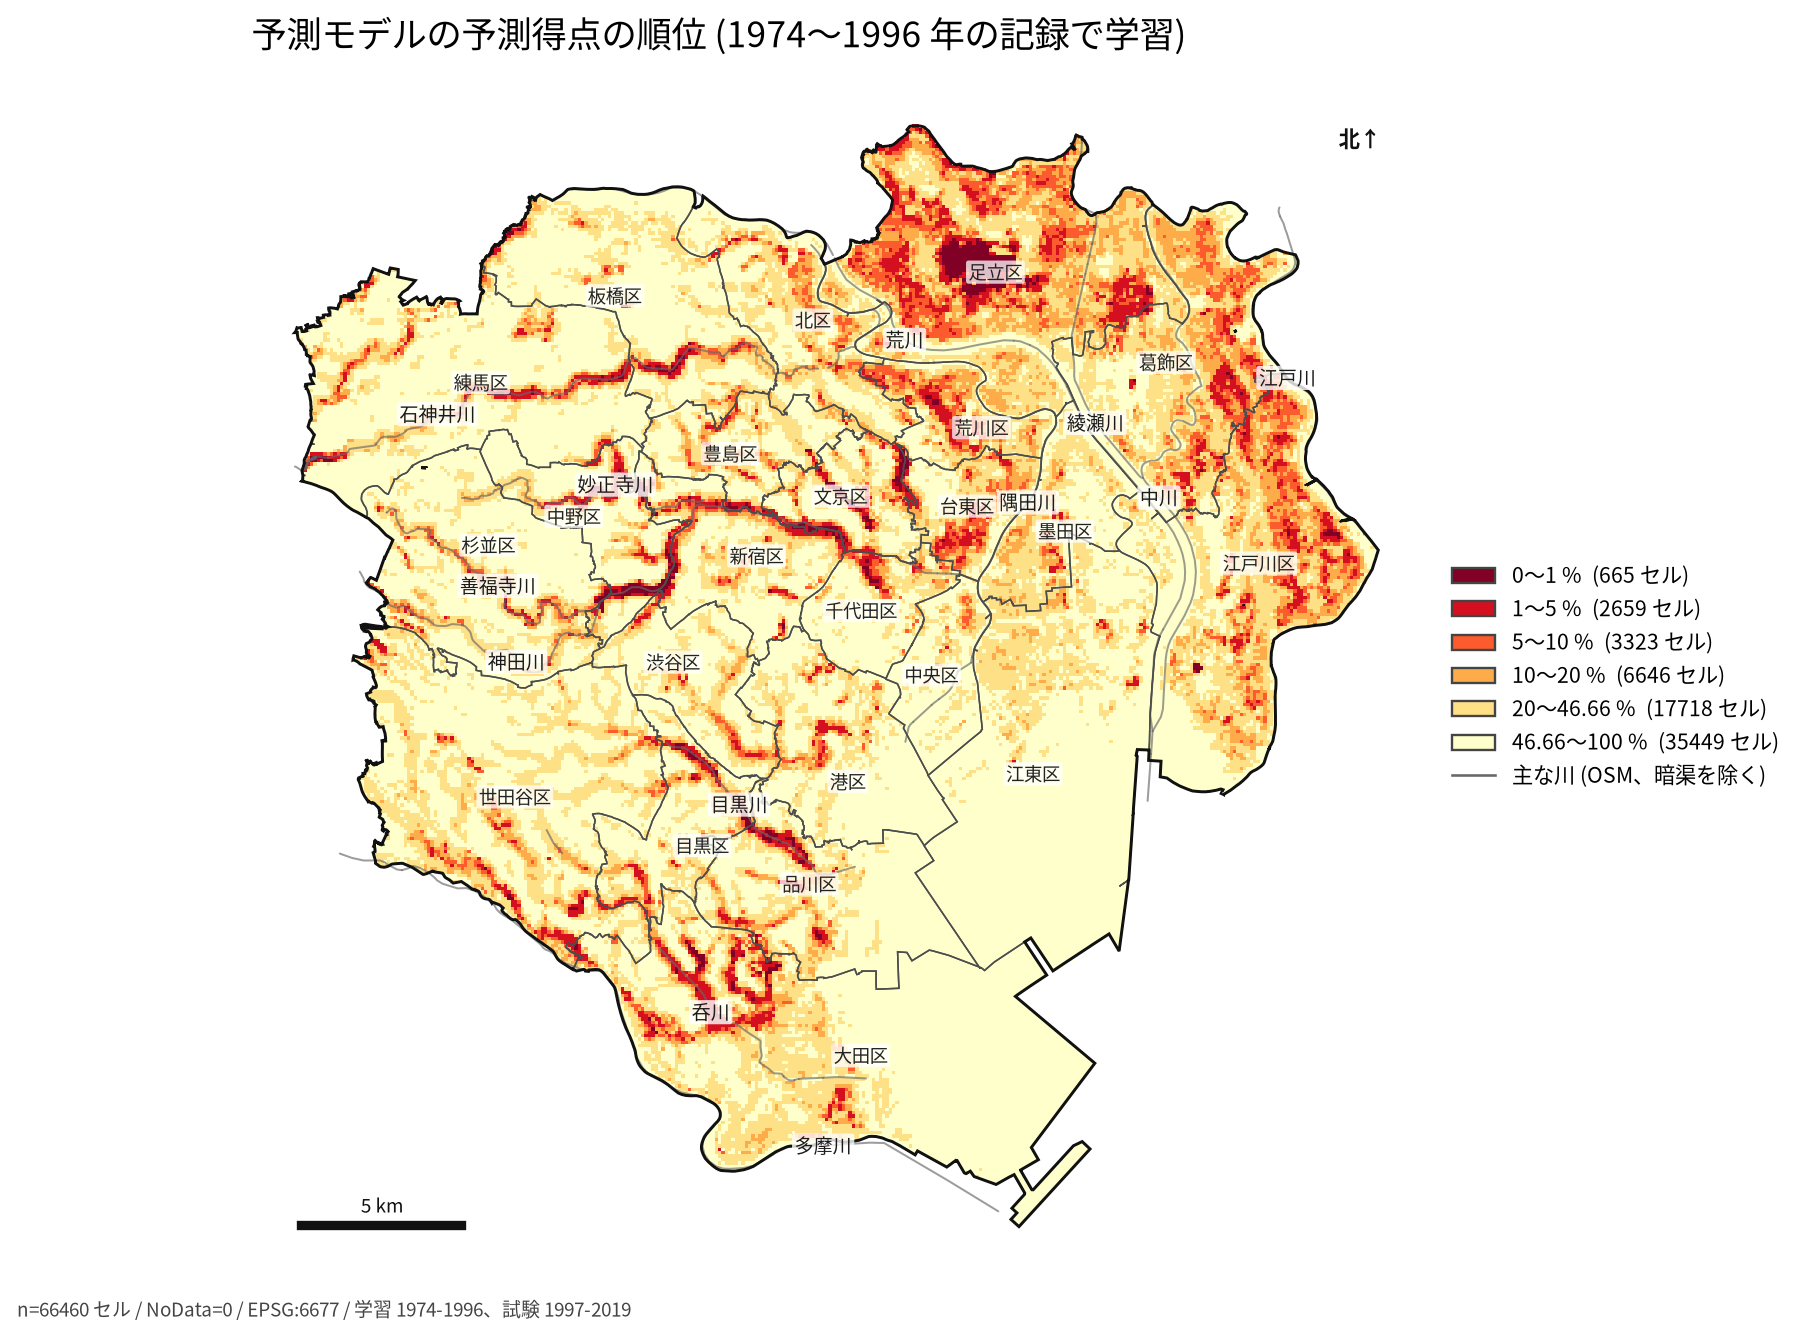
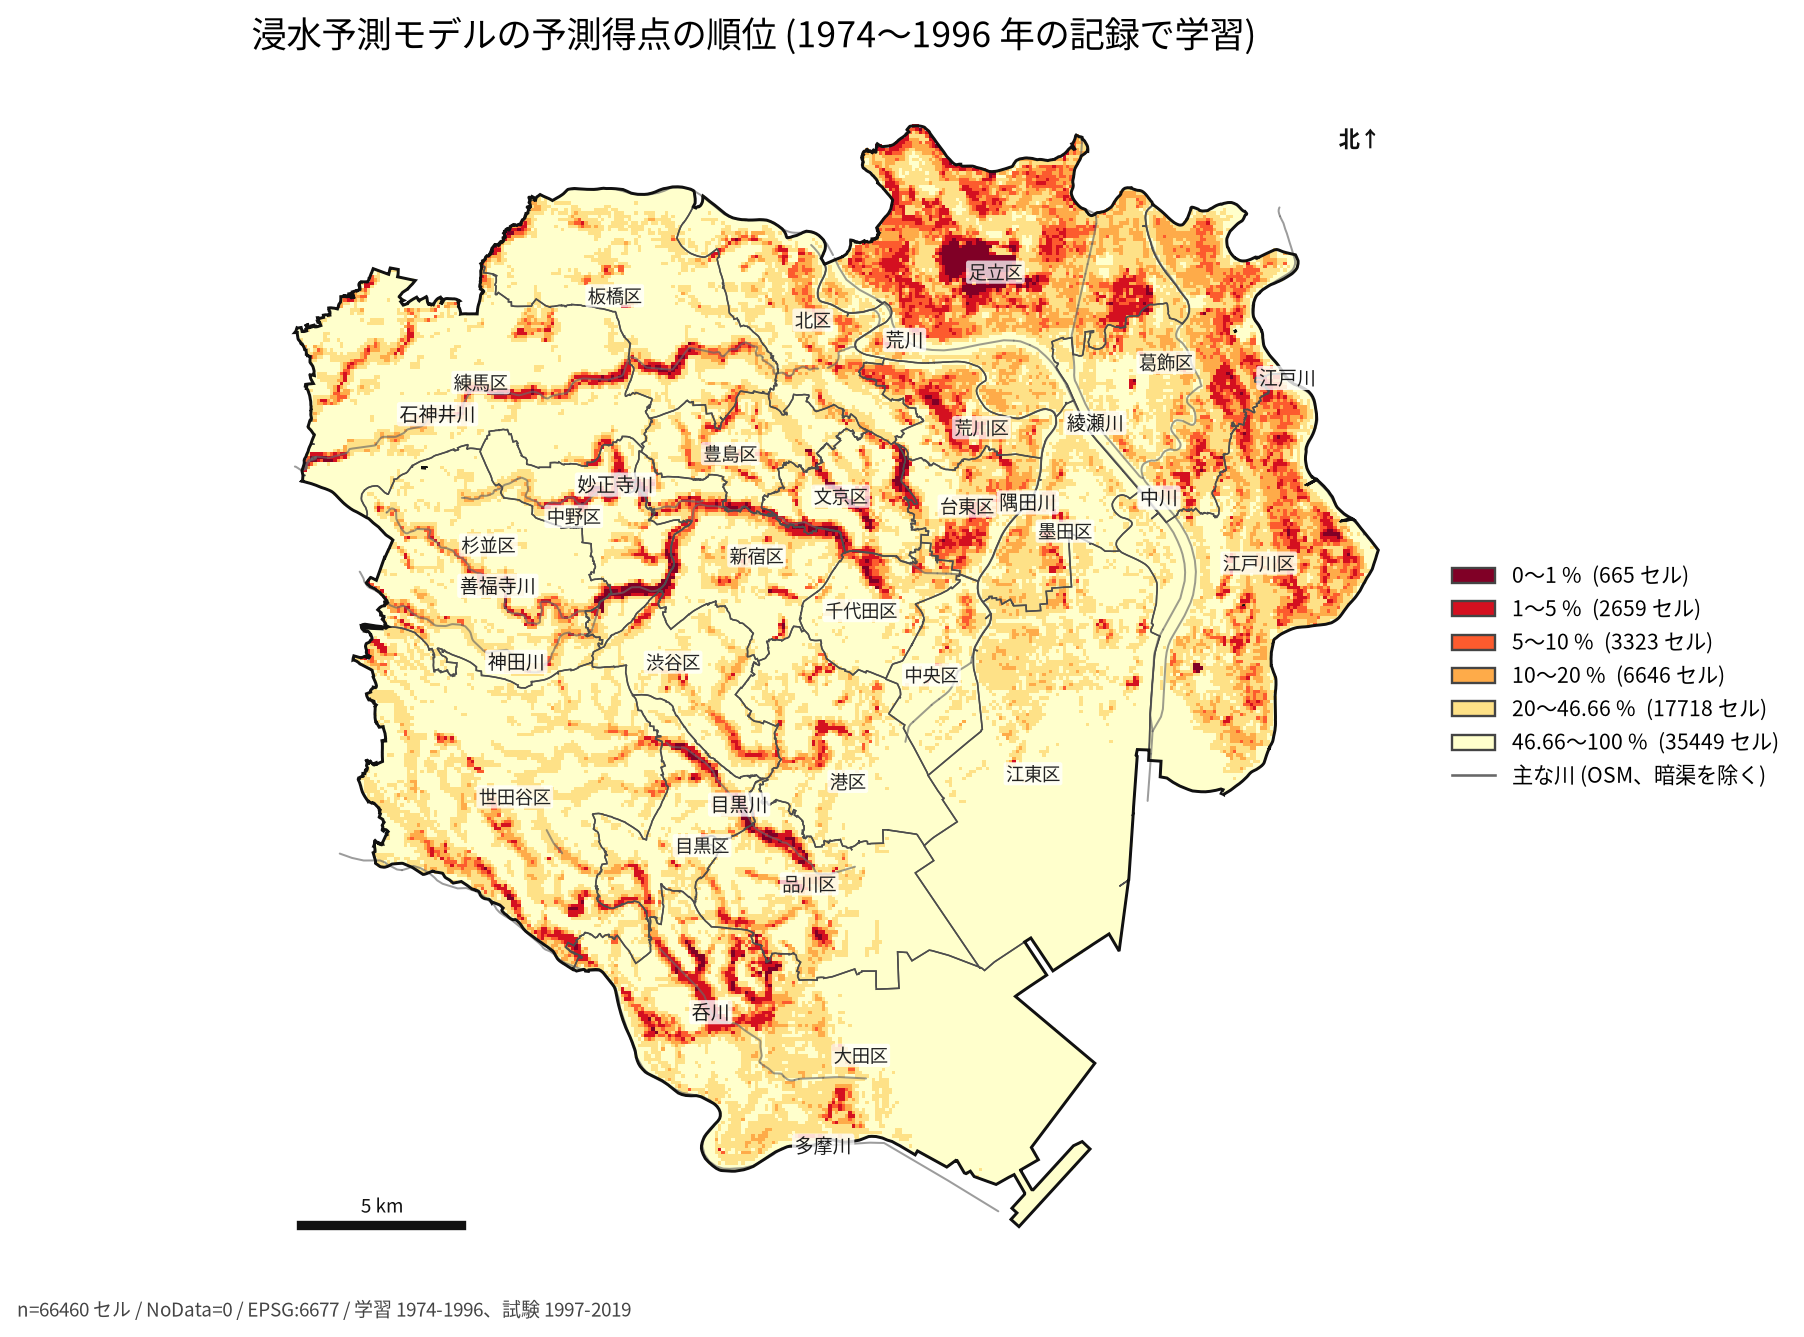
tokyo23-flood-record-vs-a31a: label the model as the flood prediction model in figures 1-4 and their captions
Claude-Session: https://claude.ai/code/session_014gZBFcVKtXbbj9oPqUVJoA

Changed region(s): [[0.1242, 0.0, 0.6829, 0.0613]]

diff --git a/projects/_flood/tokyo23-flood-record-vs-a31a/scripts/11_spatial_maps.py b/projects/_flood/tokyo23-flood-record-vs-a31a/scripts/11_spatial_maps.py
@@ -73,16 +73,16 @@ def main():
 
     figs = [
         ("fig1_model_rank", rows, ["model_pct"], BASE | context | {
-            "question": "予測モデルの予測得点の順位 (1974〜1996 年の記録で学習)", "value": "model_pct", "kind": "sequential",
+            "question": "浸水予測モデルの予測得点の順位 (1974〜1996 年の記録で学習)", "value": "model_pct", "kind": "sequential",
             "unit": "セル", "value_unit": "%", "class_method": "fixed", "classes": 6, "thresholds": [1, 5, 10, 20, 46.66],
             "palette": "YlOrRd_r", "unit_linewidth": 0, "expect_units": len(rows)}),
         ("fig2_agreement", rows, ["agree"], BASE | context | {
-            "question": "予測モデルの上位 46.7% と A31a 想定最大規模の区域", "value": "agree", "kind": "category",
-            "unit": "セル", "categories": {"1": "両方", "2": "予測モデルだけ", "3": "A31a だけ", "4": "どちらでもない"},
+            "question": "浸水予測モデルの上位 46.7% と A31a 想定最大規模の区域", "value": "agree", "kind": "category",
+            "unit": "セル", "categories": {"1": "両方", "2": "浸水予測モデルだけ", "3": "A31a だけ", "4": "どちらでもない"},
             "category_colors": {"1": "#2b6cb0", "2": "#d62728", "3": "#e377c2", "4": "#e8e8e8"}, "unit_linewidth": 0, "expect_units": len(rows)}),
         ("fig3_test_cells", [r for r in rows if r["test_cat"] is not None], ["test_cat"], BASE | context | {
             "question": "1997〜2019 年に浸水が記録されたセルは、どちらの区域に入ったか", "value": "test_cat", "kind": "category",
-            "unit": "セル", "categories": {"1": "両方", "2": "予測モデルだけ", "3": "A31a だけ", "4": "どちらでもない"},
+            "unit": "セル", "categories": {"1": "両方", "2": "浸水予測モデルだけ", "3": "A31a だけ", "4": "どちらでもない"},
             "category_colors": {"1": "#2b6cb0", "2": "#d62728", "3": "#e377c2", "4": "#222222"}, "unit_linewidth": 0.15, "expect_units": 3057}),
     ]
     for name, rs, keys, cfg in figs:

diff --git a/projects/_flood/tokyo23-flood-record-vs-a31a/scripts/10_intervals.py b/projects/_flood/tokyo23-flood-record-vs-a31a/scripts/10_intervals.py
@@ -21,7 +21,7 @@ RUNS = [("b1_main", "本解析 (100 m、2 km ブロック)"), ("rob_block_5km", 
         ("rob_grid_250_off125", "250 m 格子、125 m ずらし"), ("rob_grid_500", "500 m 格子"), ("rob_split_1990", "学習 1974-1989、試験 1990-2004"),
         ("rob_label_centre", "陽性 = 中心が記録の中"), ("rob_naisui", "内水の記録だけ"), ("rob_issui", "溢水の記録だけ"),
         ("rob_a31a_planned", "A31a 計画規模"), ("rob_a31a_max_0.5m", "A31a 最大規模 0.5 m 以上")]
-PAIRS = [(("model_static", "a31a"), "予測モデル − A31a"), (("a31a", "random"), "A31a − 無作為な順位")]
+PAIRS = [(("model_static", "a31a"), "浸水予測モデル − A31a"), (("a31a", "random"), "A31a − 無作為な順位")]
 
 
 def main():
